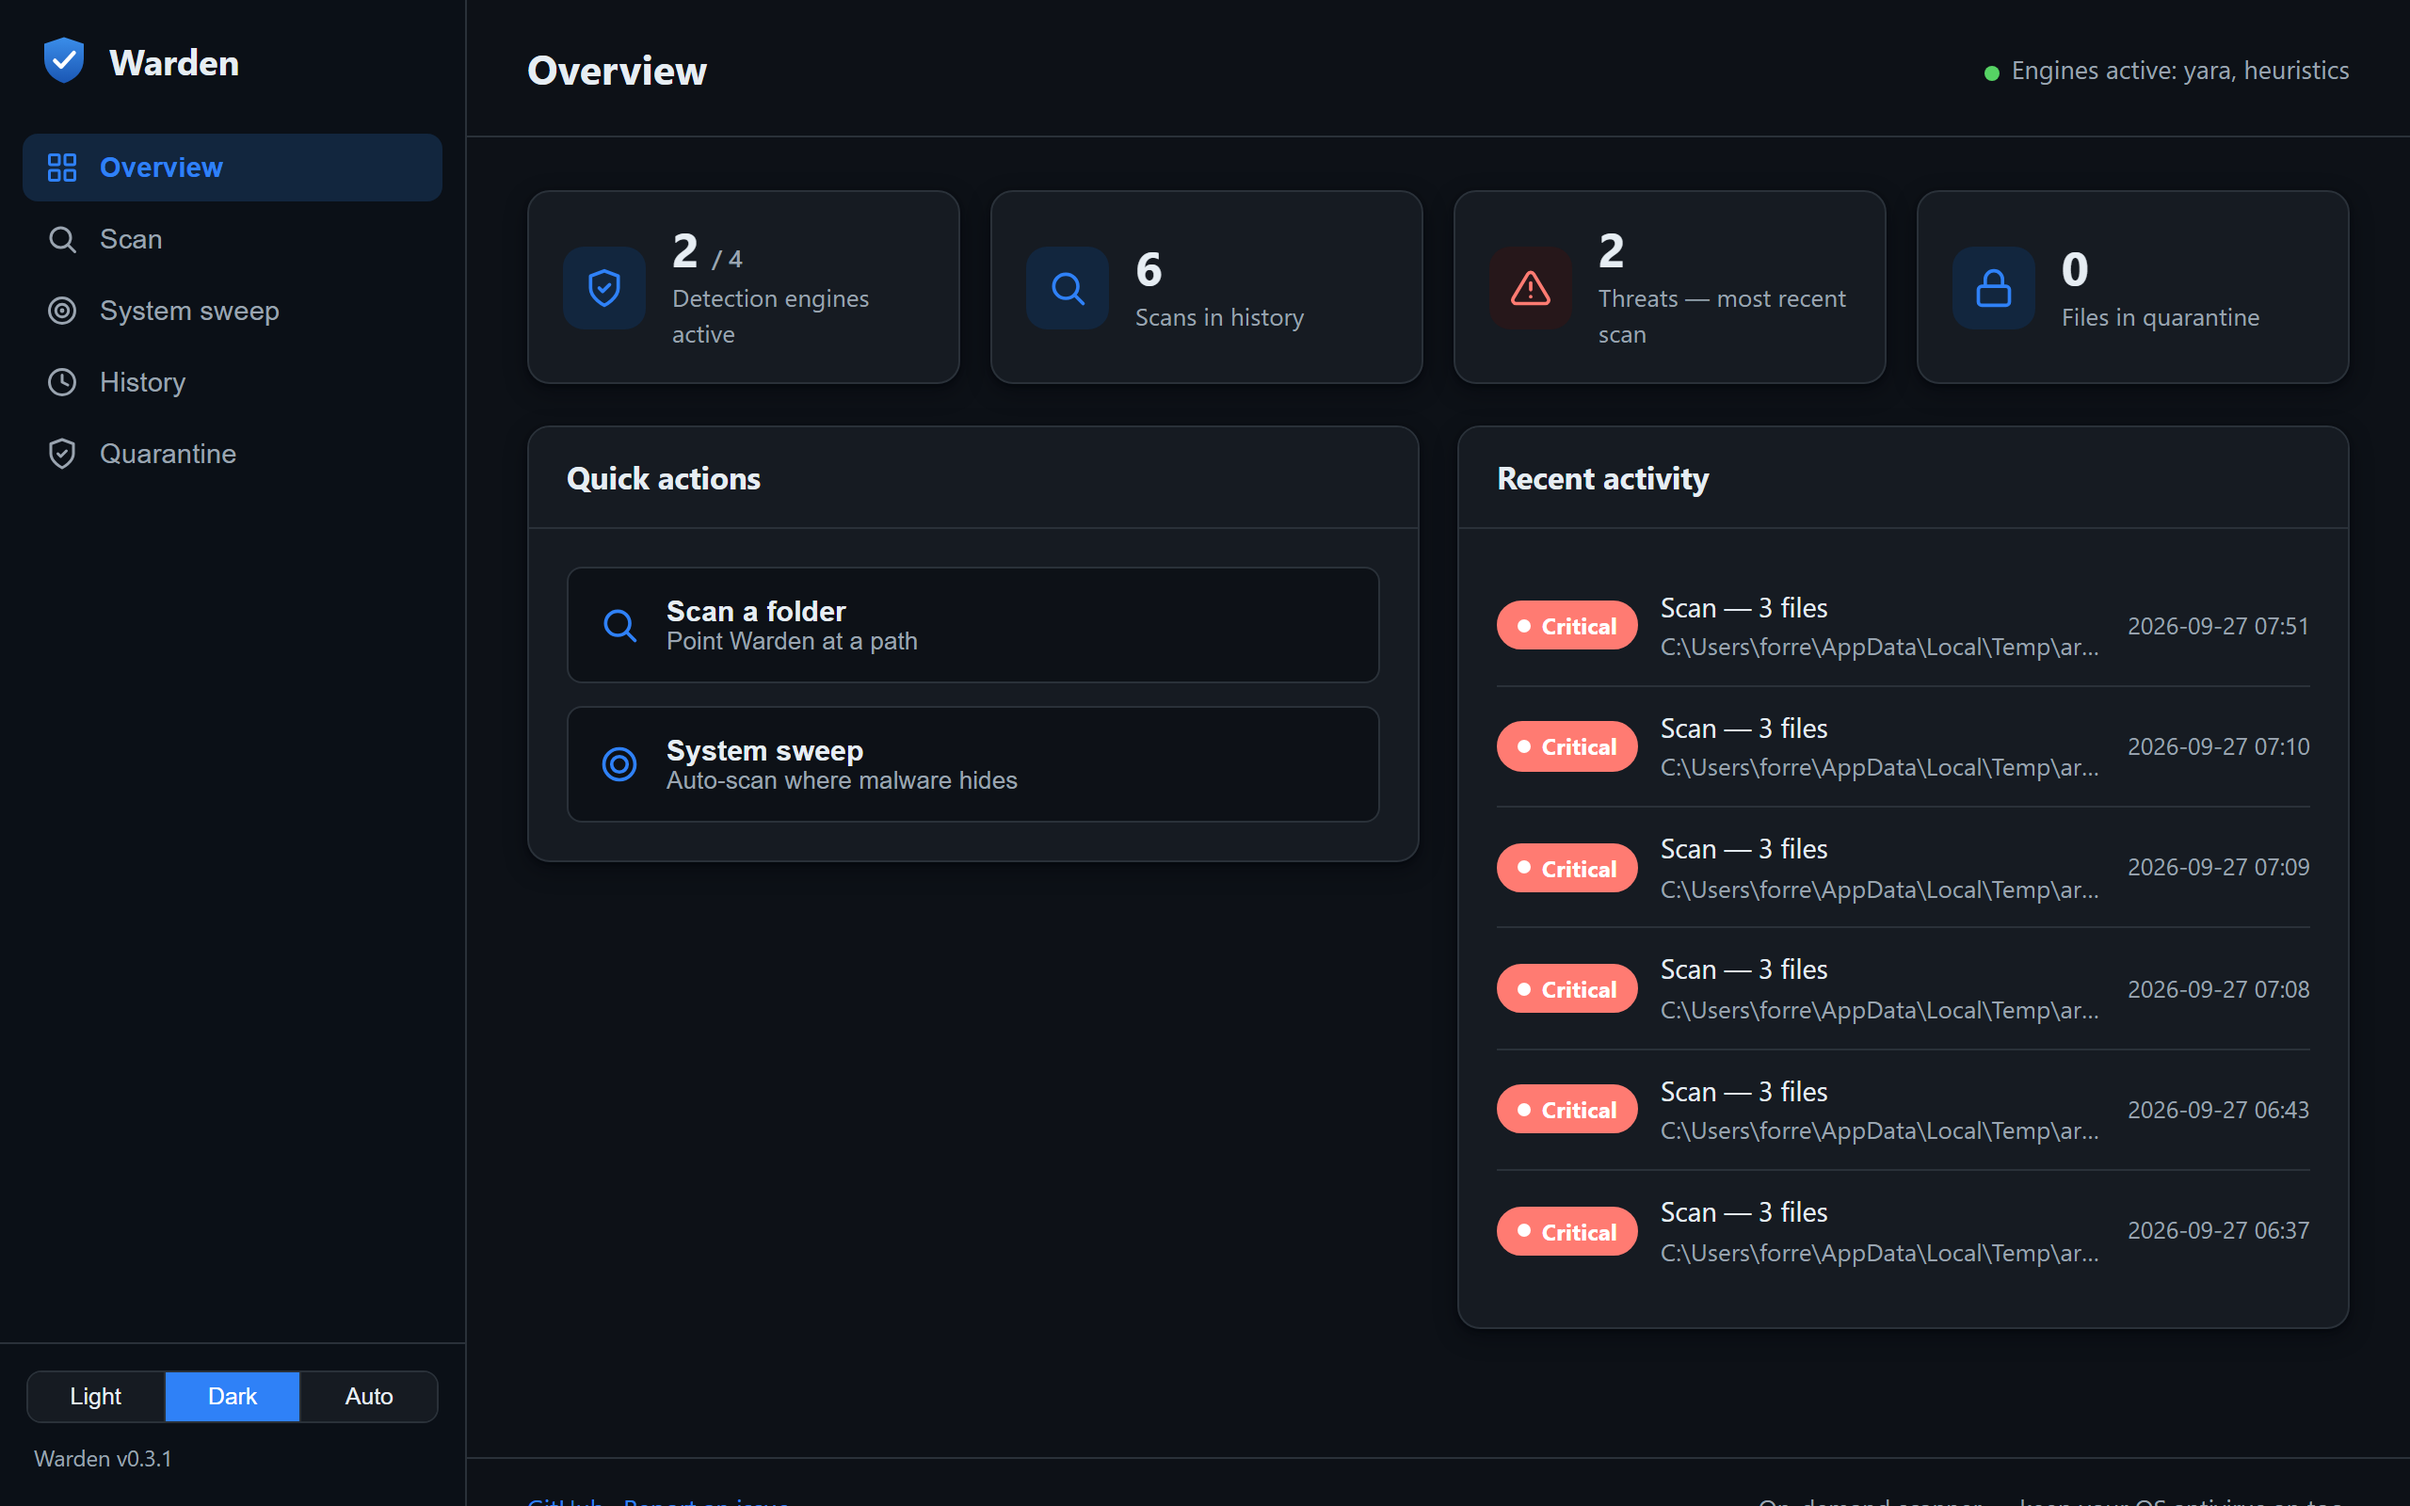
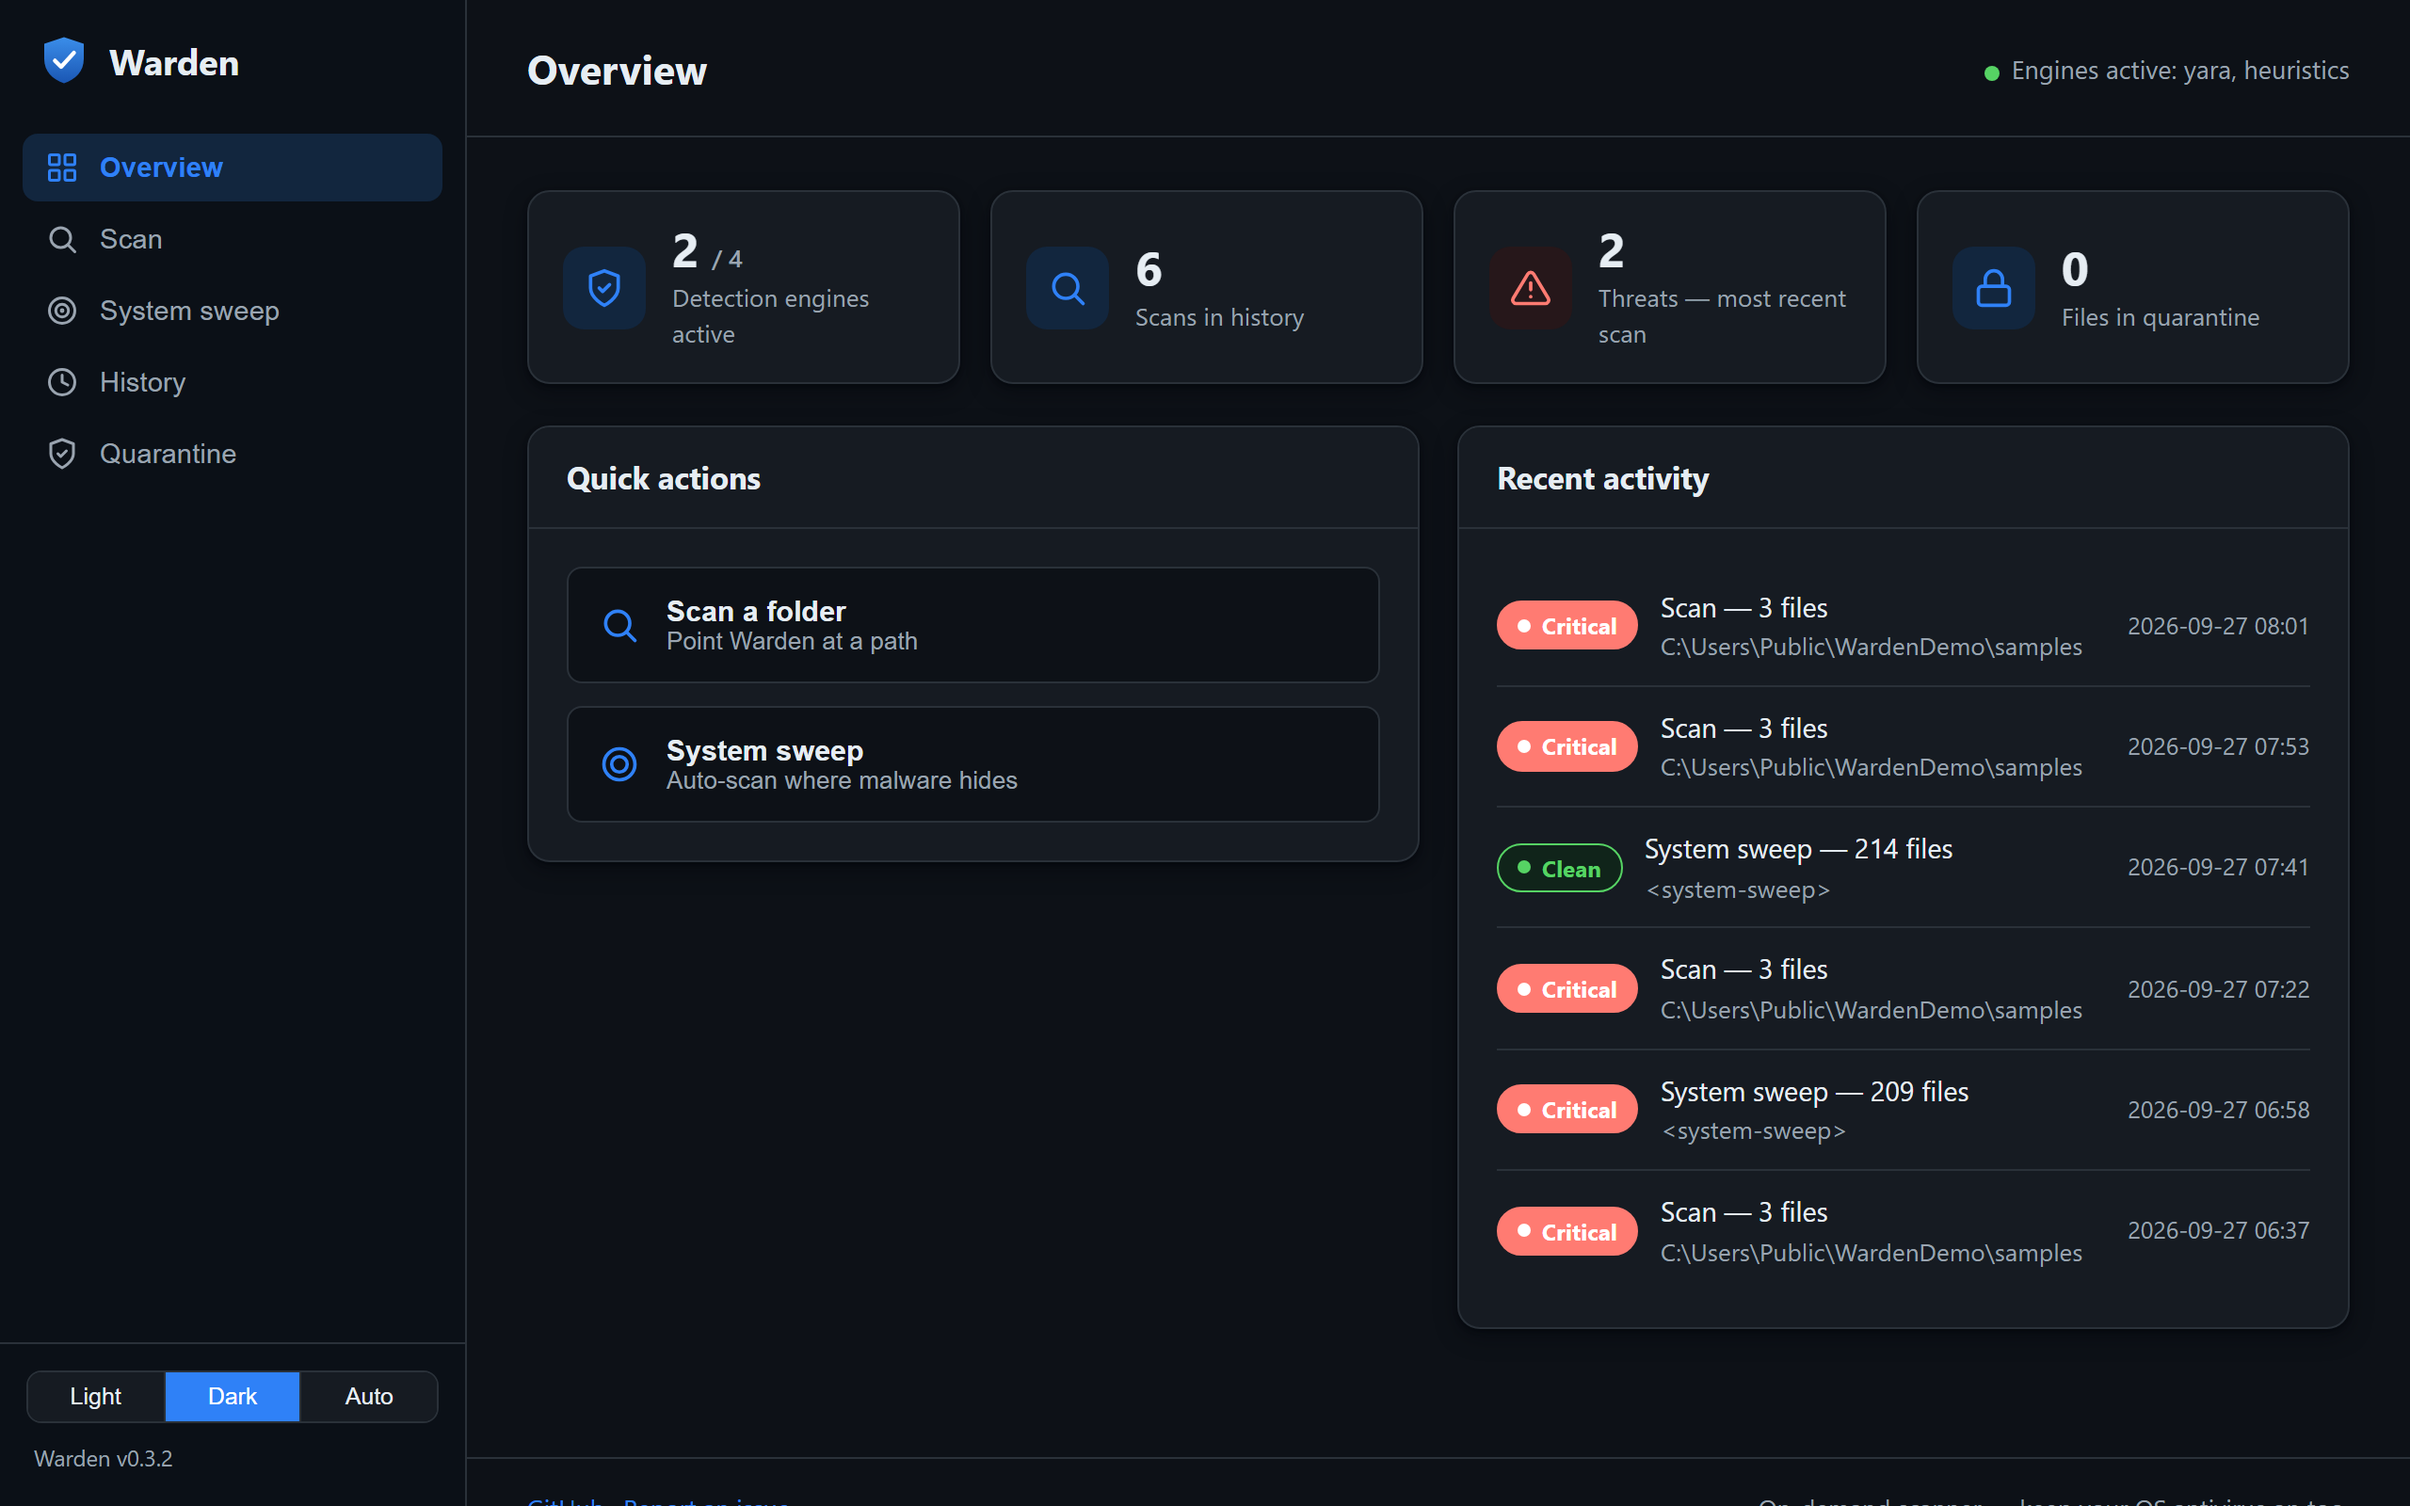
Add Overview empty state; sanitize screenshots of personal info
- Overview now shows a designed empty state before the first scan: a shield
  illustration in a scanning ring, a short intro, and Scan/Sweep call-to-action
  buttons (adapts to light/dark; accessible)
- Removed the Windows username from public assets: regenerated both dashboard
  screenshots and changed the screenshot script's default demo path to a neutral
  C:\Users\Public\WardenDemo location. No personal paths in the tree anymore.
- Bump to 0.3.3

diff --git a/warden/gui/static/index.html b/warden/gui/static/index.html
@@ -72,7 +72,26 @@
         <!-- OVERVIEW -->
         <section role="tabpanel" id="panel-overview" aria-labelledby="tab-overview" tabindex="0">
           <div id="overviewStats" class="stat-grid" aria-live="polite"></div>
-          <div class="two-col">
+
+          <!-- Empty state (before the first scan) -->
+          <div id="overviewEmpty" class="empty-state" hidden>
+            <svg class="illus" viewBox="0 0 160 160" fill="none" aria-hidden="true" focusable="false">
+              <circle class="illus-ring" cx="80" cy="80" r="66" stroke-dasharray="4 8"/>
+              <path class="illus-shield" d="M80 26 L120 40 V78 C120 108 102 126 80 134 C58 126 40 108 40 78 V40 Z"/>
+              <path class="illus-check" d="M64 82 L75 93 L98 68" />
+              <circle class="illus-glass" cx="108" cy="106" r="17"/>
+              <line class="illus-glass" x1="120" y1="118" x2="132" y2="130"/>
+            </svg>
+            <h2>Ready when you are</h2>
+            <p>Run your first scan and your results, history, and any threats will show up here.</p>
+            <div class="empty-actions">
+              <button type="button" class="btn btn-primary" data-goto="scan">Scan a folder</button>
+              <button type="button" class="btn" data-goto="sweep">Run a system sweep</button>
+            </div>
+          </div>
+
+          <!-- Populated state -->
+          <div id="overviewMain" class="two-col" hidden>
             <div class="card">
               <div class="card-head"><h2>Quick actions</h2></div>
               <div class="quick-actions">

diff --git a/warden/gui/static/style.css b/warden/gui/static/style.css
@@ -239,6 +239,21 @@ tbody tr:hover { background: var(--surface-2); }
 .empty { color: var(--muted); padding: 28px 0; text-align: center; }
 .empty svg { width: 40px; height: 40px; stroke: var(--border-strong); stroke-width: 1.6; fill: none; display: block; margin: 0 auto 10px; }
 
+/* -- overview empty state -- */
+.empty-state {
+  background: var(--surface); border: 1px solid var(--border); border-radius: var(--radius);
+  box-shadow: var(--shadow); padding: 44px 24px 40px; text-align: center;
+  display: flex; flex-direction: column; align-items: center;
+}
+.empty-state h2 { margin: 20px 0 6px; font-size: 1.25rem; }
+.empty-state p { margin: 0 0 22px; color: var(--muted); max-width: 420px; }
+.empty-actions { display: flex; gap: 12px; flex-wrap: wrap; justify-content: center; }
+.illus { width: 132px; height: 132px; }
+.illus-ring { stroke: var(--border-strong); stroke-width: 2; opacity: .55; }
+.illus-shield { stroke: var(--accent); stroke-width: 3; fill: var(--accent-subtle); stroke-linejoin: round; }
+.illus-check { stroke: var(--accent); stroke-width: 4; fill: none; stroke-linecap: round; stroke-linejoin: round; opacity: .9; }
+.illus-glass { stroke: var(--text); stroke-width: 3.5; fill: var(--surface); stroke-linecap: round; }
+
 /* -- footer -- */
 .site-footer { margin-top: auto; padding: 16px 32px; display: flex; align-items: center; gap: 12px; flex-wrap: wrap; color: var(--muted); font-size: .82rem; border-top: 1px solid var(--border); }
 .site-footer a { color: var(--accent); text-decoration: none; }

diff --git a/warden/gui/static/app.js b/warden/gui/static/app.js
@@ -83,7 +83,7 @@ tabs.forEach((tab, i) => {
     if (idx !== null) { e.preventDefault(); selectTab(tabs[idx]); }
   });
 });
-$$(".action-tile").forEach((t) => t.addEventListener("click", () => selectTab($("#tab-" + t.dataset.goto), true)));
+$$("[data-goto]").forEach((t) => t.addEventListener("click", () => selectTab($("#tab-" + t.dataset.goto), true)));
 
 /* ---------- engine status + overview ---------- */
 let statusCache = null;
@@ -117,6 +117,11 @@ async function loadOverview() {
     const last = entries[0];
     const quarActive = (quar.entries || []).filter((e) => !e.restored).length;
     const activeCount = status ? status.active.length : 0;
+    const hasHistory = entries.length > 0;
+
+    // Empty state vs populated overview
+    $("#overviewEmpty").hidden = hasHistory;
+    $("#overviewMain").hidden = !hasHistory;
 
     box.innerHTML = "";
     box.append(

diff --git a/packaging/make_screenshots.py b/packaging/make_screenshots.py
@@ -11,7 +11,8 @@ from pathlib import Path
 from playwright.sync_api import sync_playwright
 
 URL = sys.argv[1] if len(sys.argv) > 1 else "http://127.0.0.1:8790/"
-SCAN_PATH = sys.argv[2] if len(sys.argv) > 2 else r"C:\Users\forre\AppData\Local\Temp\argus_test"
+# Neutral demo path (no personal username) for public screenshots.
+SCAN_PATH = sys.argv[2] if len(sys.argv) > 2 else r"C:\Users\Public\WardenDemo\samples"
 OUT = Path(__file__).resolve().parent.parent / "docs" / "images"
 OUT.mkdir(parents=True, exist_ok=True)
 

diff --git a/warden/__init__.py b/warden/__init__.py
@@ -4,5 +4,5 @@ Guards your filesystem. Scans files and systems using YARA rules,
 hash reputation, structural heuristics, and (optionally) ClamAV.
 """
 
-__version__ = "0.3.2"
+__version__ = "0.3.3"
 __all__ = ["__version__"]

diff --git a/CHANGELOG.md b/CHANGELOG.md
@@ -6,6 +6,16 @@ adheres to [Semantic Versioning](https://semver.org/spec/v2.0.0.html).
 
 ## [Unreleased]
 
+## [0.3.3] - 2026-09-27
+
+### Added
+- Overview **empty state**: before the first scan, the dashboard shows a shield
+  illustration, a short intro, and one-click actions instead of blank cards.
+
+### Changed
+- Regenerated screenshots and the screenshot script's demo path to use a neutral
+  `C:\Users\Public\WardenDemo` location (no personal username in public images).
+
 ## [0.3.2] - 2026-09-27
 
 ### Changed
@@ -68,7 +78,8 @@ adheres to [Semantic Versioning](https://semver.org/spec/v2.0.0.html).
 - Accessible web dashboard (`warden gui`) — WCAG 2.1 AA, light/dark/system theme.
 - Standalone Windows/Linux/macOS binaries published to GitHub Releases via CI.
 
-[Unreleased]: https://github.com/ForrestLasiter/warden/compare/v0.3.2...HEAD
+[Unreleased]: https://github.com/ForrestLasiter/warden/compare/v0.3.3...HEAD
+[0.3.3]: https://github.com/ForrestLasiter/warden/compare/v0.3.2...v0.3.3
 [0.3.2]: https://github.com/ForrestLasiter/warden/compare/v0.3.1...v0.3.2
 [0.3.1]: https://github.com/ForrestLasiter/warden/compare/v0.3.0...v0.3.1
 [0.3.0]: https://github.com/ForrestLasiter/warden/compare/v0.2.0...v0.3.0
